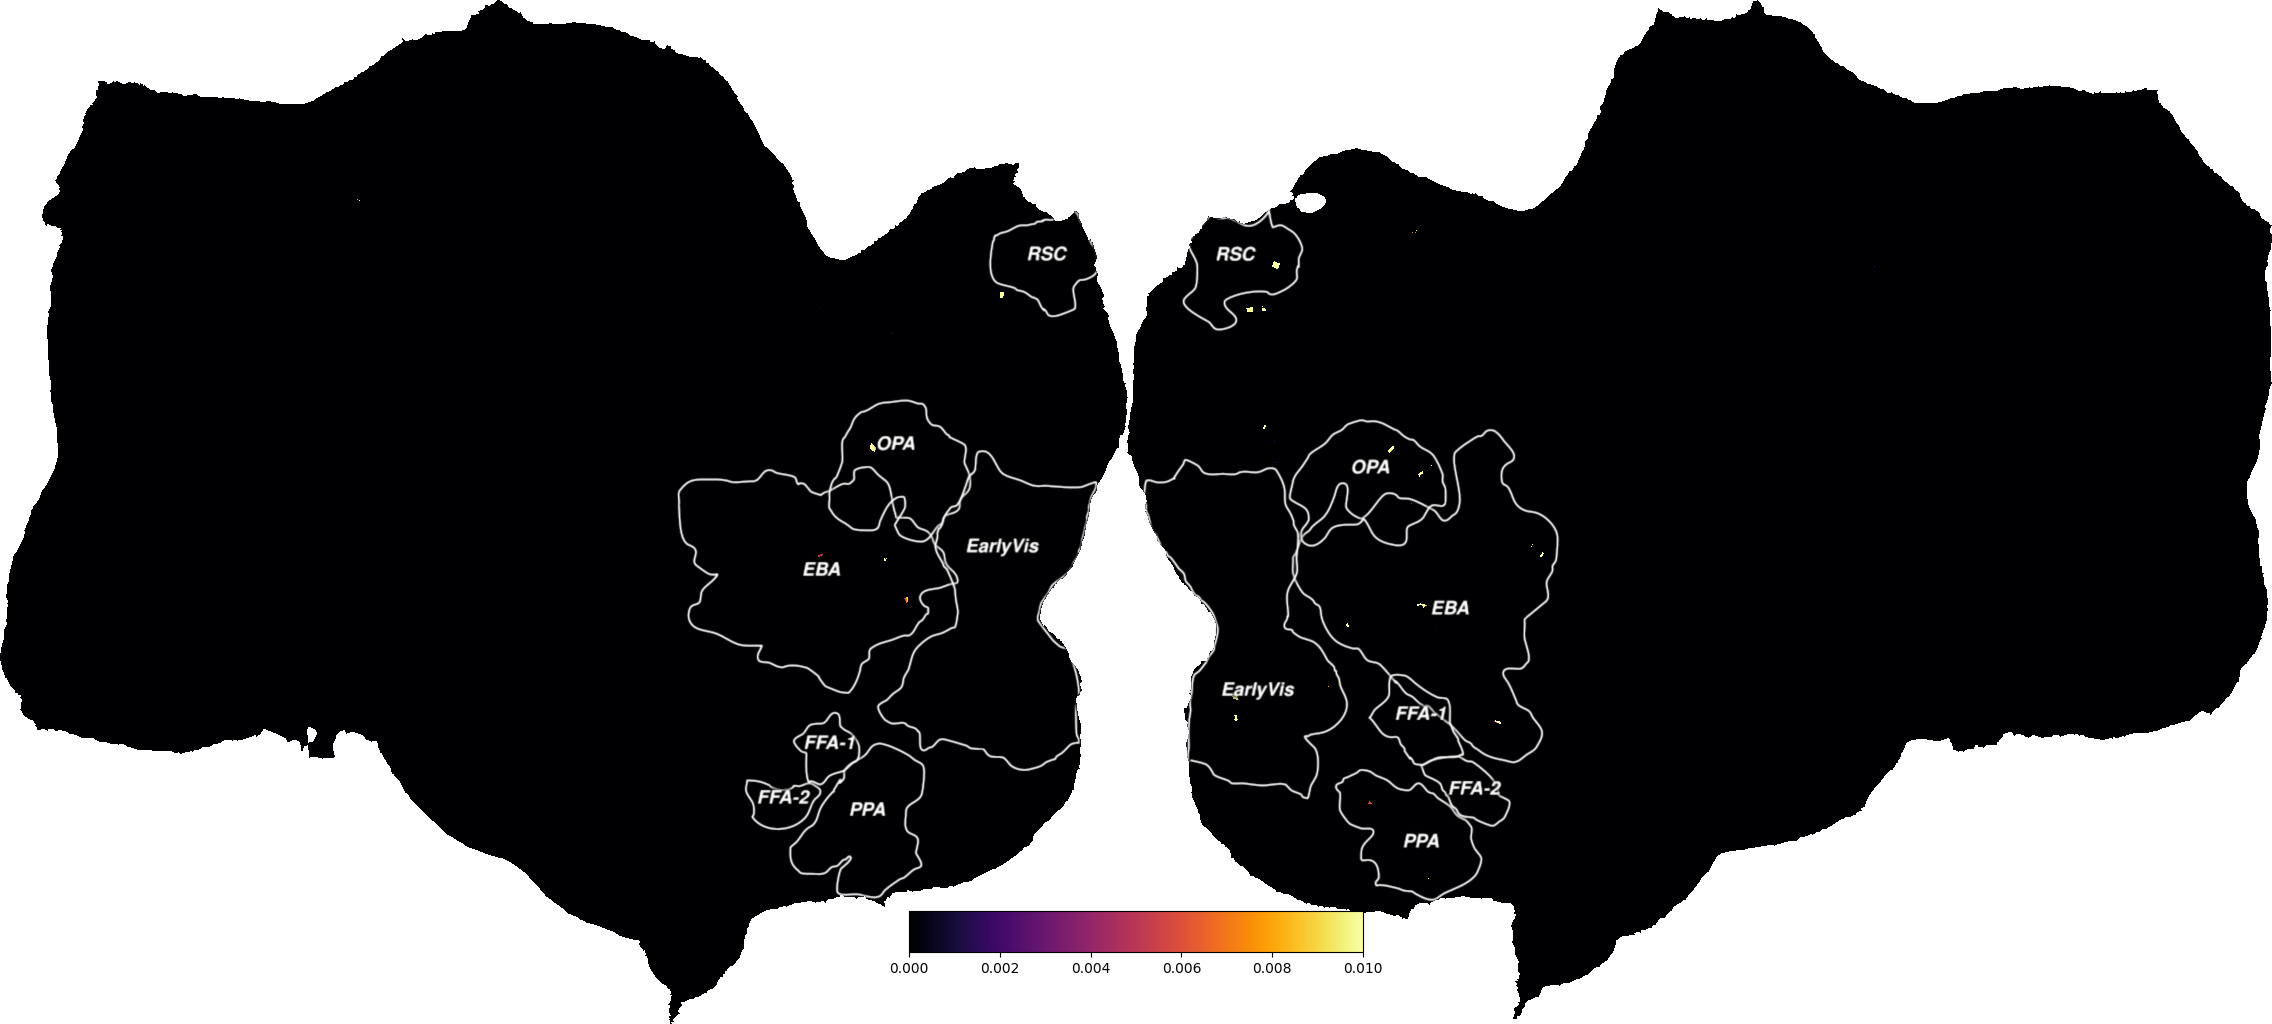
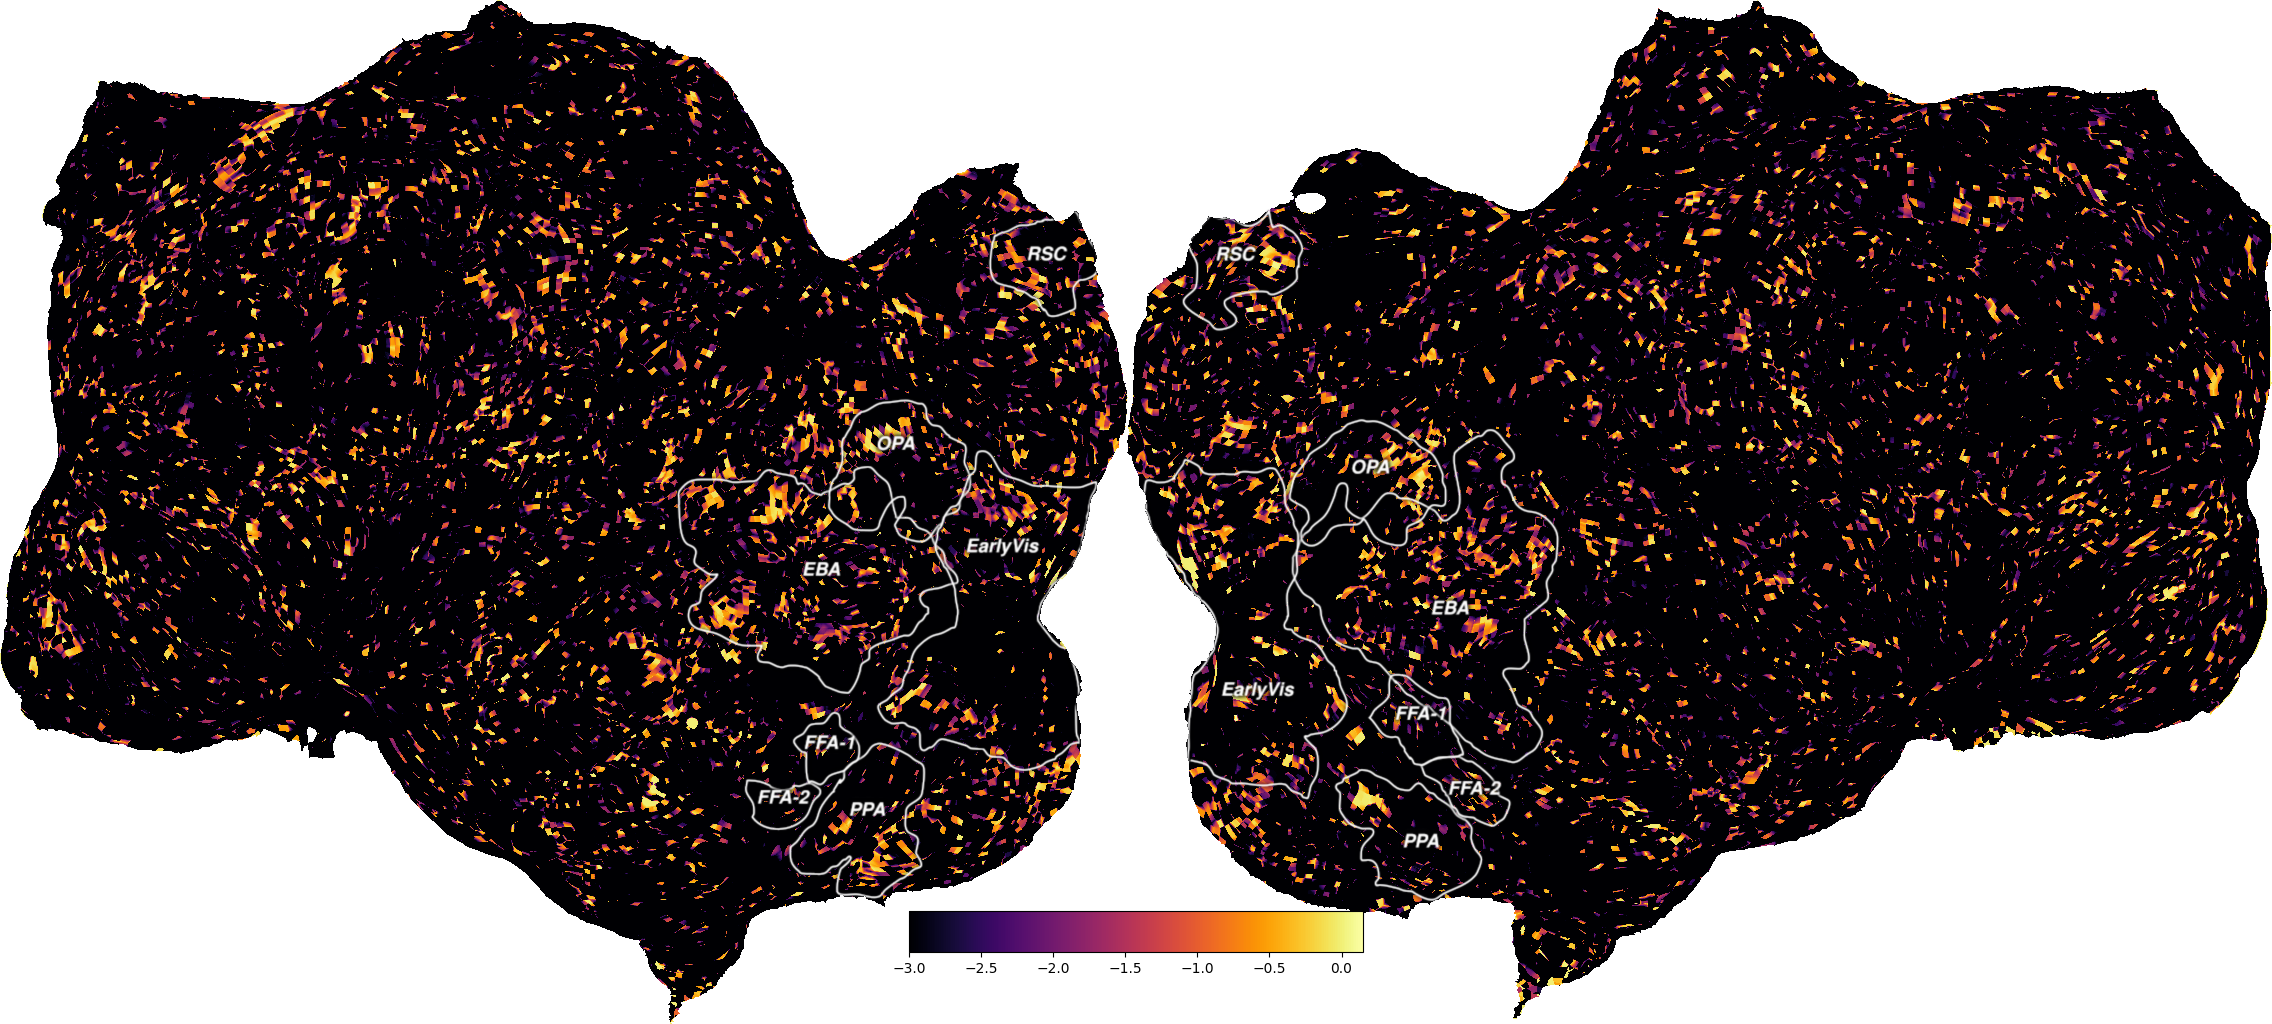
check alpha values

diff --git a/utils.py b/utils.py
@@ -220,6 +220,9 @@ def set_pipeline(feature_arrays, cv=None):
                     n_targets_batch=500, n_alphas_batch=5,
                     n_targets_batch_refit=100))
 
+    # Return selected alpha
+    print("Selected alpha:", kernel_ridge_cv.alpha_)
+
     pipeline = make_pipeline(
         scaler,
         delayer,
@@ -249,11 +252,6 @@ def safe_correlation(x, y):
         return numerator / denominator
 
 
-def normalize(data, mean, std):
-    """Normalize data to a specified mean and standard deviation."""
-    return (data - mean) / std
-
-
 def safe_r_squared(y_true, y_pred):
     """Calculate the R^2 coefficient safely."""
     # print("residual_check", y_true - y_pred)
@@ -271,14 +269,9 @@ def calc_corr_r2(predicted_fMRI, real_fMRI):
     correlation_coefficients = np.array(correlation_coefficients)
 
     # Calculate R^2 for each voxel
-    normalized_predictions = normalize(
-        predicted_fMRI, np.mean(predicted_fMRI), np.std(predicted_fMRI))
-    normalized_real_fmri = normalize(
-        real_fMRI, np.mean(real_fMRI), np.std(real_fMRI))
-
-    r_squared = [safe_r_squared(normalized_real_fmri[:, i],
-                                normalized_predictions[:, i]) for i in
-                 range(normalized_predictions.shape[1])]
+    r_squared = [safe_r_squared(real_fMRI[:, i],
+                                predicted_fMRI[:, i]) for i in
+                 range(predicted_fMRI.shape[1])]
     r_squared = np.array(r_squared)
 
     # Check for NaNs in the result

diff --git a/visual_tools/visualize_clip.py b/visual_tools/visualize_clip.py
@@ -74,8 +74,8 @@ print("Correlation shape:", corr_3d.shape)
 # # Flatten the data to 2D (example with max projection)
 # flat_prediction = np.max(prediction_3d, axis=2)
 
-vmin = 0
-vmax = .01
+vmin = -3
+vmax = .15
 vol = cortex.Volume(corr_3d, subject, transform_name, cmap="inferno", #"RdBu_r", #"hot",
                     vmin=vmin, vmax=vmax
                     )
